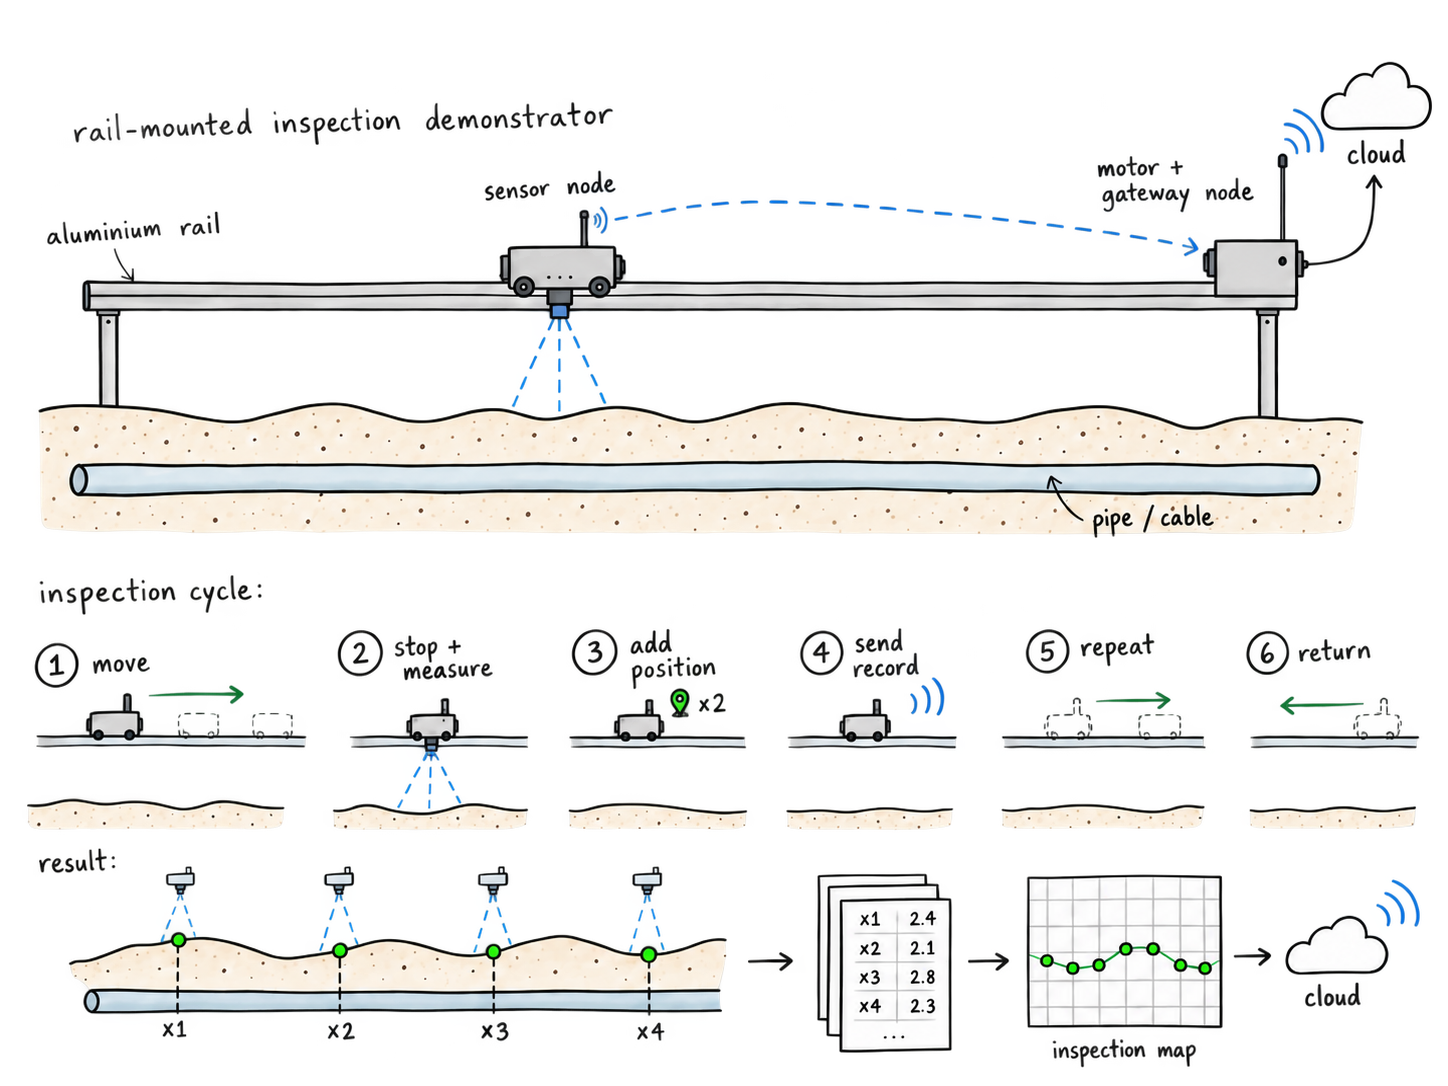
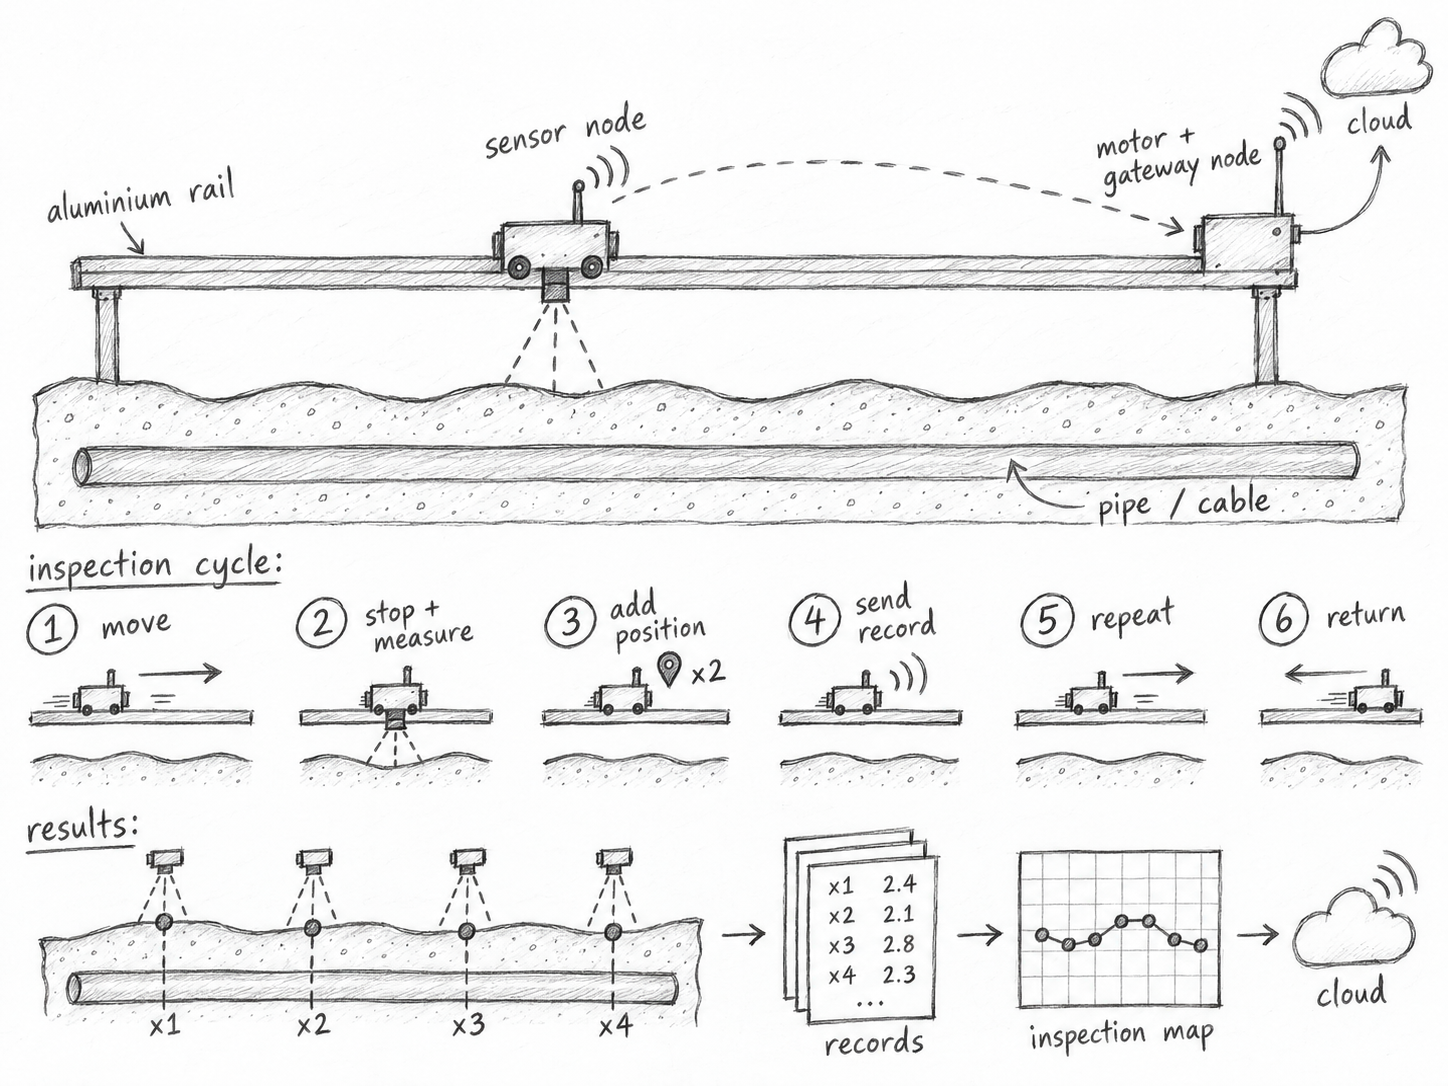
update post

Changed region(s): [[0.0, 0.0, 0.9945, 0.9724], [0.8702, 0.547, 0.9945, 0.7597]]

diff --git a/blog.js b/blog.js
@@ -94,7 +94,7 @@ function renderPostBlock(block) {
                         sandbox="allow-scripts"
                         referrerpolicy="no-referrer"
                     ></iframe>
-                    <p class="post-demo-caption">Interactive device control panel from the Sandur demo.</p>
+                    <p class="post-demo-caption">The local control UI I used during development to manually control the carriage.</p>
                 </div>
             </section>
         `;
@@ -109,6 +109,53 @@ function renderPostBlock(block) {
             <aside class="post-disclaimer" role="note" aria-label="${escapeHtml(title)}">
                 <strong class="post-disclaimer-title">${renderPlainText(title)}</strong>
                 <p>${renderInlineText(block.text)}</p>
+            </aside>
+        `;
+    }
+
+    if (block.type === 'closingNote' && typeof block.text === 'string') {
+        const contacts = Array.isArray(block.contacts)
+            ? block.contacts.map((contact) => {
+                if (
+                    typeof contact.label !== 'string' ||
+                    typeof contact.value !== 'string'
+                ) return '';
+
+                const content = `
+                    <span>${renderPlainText(contact.label)}</span>
+                    <strong>${renderPlainText(contact.value)}</strong>
+                `;
+
+                if (typeof contact.href !== 'string') {
+                    return `<li><span class="post-closing-link post-closing-link--static">${content}</span></li>`;
+                }
+
+                try {
+                    const url = new URL(contact.href, document.baseURI);
+                    if (url.protocol !== 'https:' && url.protocol !== 'mailto:') return '';
+                    const externalAttributes = url.protocol === 'https:'
+                        ? ' target="_blank" rel="noopener noreferrer"'
+                        : '';
+
+                    return `
+                        <li>
+                            <a class="post-closing-link" href="${escapeHtml(contact.href)}"${externalAttributes}>
+                                ${content}
+                            </a>
+                        </li>
+                    `;
+                } catch {
+                    return '';
+                }
+            }).join('')
+            : '';
+        const thanks = typeof block.thanks === 'string' ? block.thanks : 'Thank you!';
+
+        return `
+            <aside class="post-closing-note" aria-label="Closing note">
+                <p class="post-closing-text">${renderInlineText(block.text)}</p>
+                <ul class="post-closing-contacts" aria-label="Contact links">${contacts}</ul>
+                <p class="post-closing-thanks">${renderPlainText(thanks)}</p>
             </aside>
         `;
     }

diff --git a/style.css b/style.css
@@ -651,6 +651,92 @@ a:hover {
     }
 }
 
+/* Article closing note */
+.post-closing-note {
+    margin: 56px 0 8px;
+    padding: 32px;
+    text-align: center;
+    background: linear-gradient(145deg, var(--surface), var(--surface-2));
+    border: 1px solid var(--border);
+    border-radius: 18px;
+}
+
+.post-body p.post-closing-text {
+    max-width: 660px;
+    margin: 0 auto;
+    color: var(--text-primary);
+    font-size: 1rem;
+    line-height: 1.75;
+}
+
+.post-closing-contacts {
+    display: flex;
+    justify-content: center;
+    flex-wrap: wrap;
+    gap: 10px;
+    margin: 24px 0 0;
+    padding: 0;
+    list-style: none;
+}
+
+.post-body a.post-closing-link,
+.post-closing-link--static {
+    display: flex;
+    flex-direction: column;
+    gap: 2px;
+    min-width: 150px;
+    padding: 10px 14px;
+    text-decoration: none;
+    background: var(--bg);
+    border: 1px solid var(--border);
+    border-radius: 10px;
+    transition: background 0.2s ease, border-color 0.2s ease;
+}
+
+.post-closing-link:hover {
+    background: var(--surface-2);
+    border-color: #444444;
+}
+
+.post-closing-link span {
+    color: var(--text-tertiary);
+    font-size: 0.72rem;
+}
+
+.post-closing-link strong {
+    color: var(--text-primary);
+    font-size: 0.82rem;
+    font-weight: 600;
+}
+
+.post-closing-link:focus-visible {
+    outline: 2px solid var(--text-primary);
+    outline-offset: 3px;
+}
+
+.post-body p.post-closing-thanks {
+    margin: 26px 0 0;
+    color: #d9b778;
+    font-size: 1.15rem;
+    font-weight: 700;
+}
+
+@media (max-width: 768px) {
+    .post-closing-note {
+        margin-top: 40px;
+        padding: 24px 16px;
+        border-radius: 14px;
+    }
+
+    .post-closing-contacts {
+        flex-direction: column;
+    }
+
+    .post-closing-link {
+        width: 100%;
+    }
+}
+
 /* Reusable text highlight */
 .text-highlight {
     padding: 0.04em 0.12em 0.07em;
